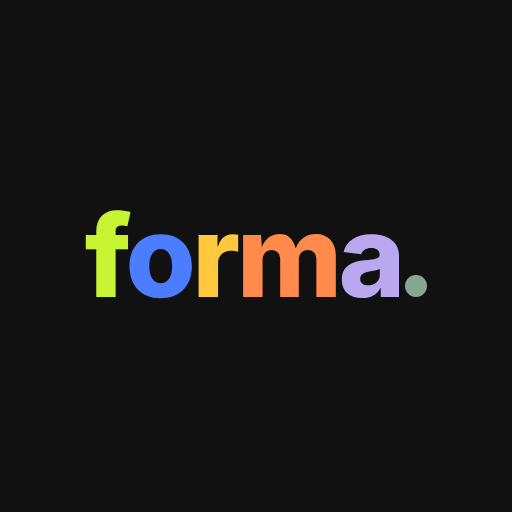
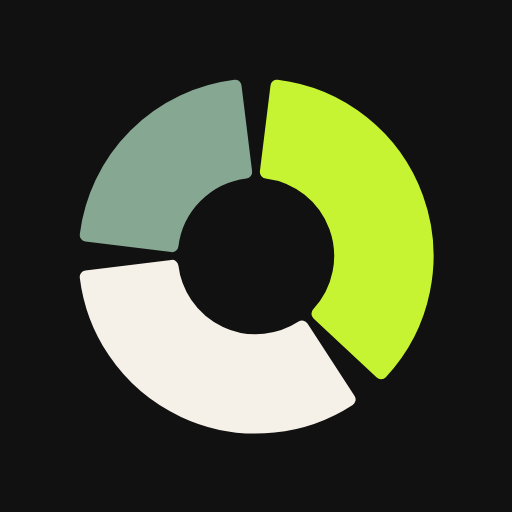
Add files via upload

diff --git a/miforma.js b/miforma.js
@@ -10,6 +10,8 @@
   var $ = function (s, r) { return (r || document).querySelector(s); };
   var esc = function (s) { return String(s == null ? "" : s).replace(/[&<>"']/g, function (c) { return { "&": "&amp;", "<": "&lt;", ">": "&gt;", '"': "&quot;", "'": "&#39;" }[c]; }); };
 
+  var LMARK = '<svg class="lmark" viewBox="0 0 512 512" aria-hidden="true"><path d="M278.7 71.4A186 186 0 0 1 392.0 382.9L323.3 318.7A92 92 0 0 0 267.2 164.7Z" fill="#C6F432" stroke="#C6F432" stroke-width="14" stroke-linejoin="round"/><path d="M357.3 412.0A186 186 0 0 1 71.4 278.7L164.7 267.2A92 92 0 0 0 306.1 333.2Z" fill="currentColor" stroke="currentColor" stroke-width="14" stroke-linejoin="round"/><path d="M71.4 233.3A186 186 0 0 1 233.3 71.4L244.8 164.7A92 92 0 0 0 164.7 244.8Z" fill="#86A892" stroke="#86A892" stroke-width="14" stroke-linejoin="round"/></svg>';
+  function stageRing(st) { var P = ['M278.7 71.4A186 186 0 0 1 392.0 382.9L323.3 318.7A92 92 0 0 0 267.2 164.7Z', 'M357.3 412.0A186 186 0 0 1 71.4 278.7L164.7 267.2A92 92 0 0 0 306.1 333.2Z', 'M71.4 233.3A186 186 0 0 1 233.3 71.4L244.8 164.7A92 92 0 0 0 164.7 244.8Z'], C = ['#C6F432', '#F5F1E8', '#86A892']; return '<svg class="sring" viewBox="0 0 512 512" aria-hidden="true">' + P.map(function (d, i) { var on = i + 1 <= st; return '<path d="' + d + '" fill="' + C[i] + '" stroke="' + C[i] + '" stroke-width="14" stroke-linejoin="round" opacity="' + (on ? 1 : .22) + '"/>'; }).join('') + '</svg>'; }
   // ---------- catálogo ----------
   var SHAPES = {
     tenis: '<svg viewBox="0 0 44 44"><circle cx="22" cy="22" r="20" fill="#C6F432"/></svg>',
@@ -318,7 +320,7 @@
     var body = { hoy: vHoy, tools: vTools, planes: vPlanes, perfil: vPerfil }[tab]();
     var n = weekCount(0), topPro = isPro("vida") || PLANS.some(function (p) { return isPro(p.id); });
     $app.innerHTML =
-      '<div class="top"><div class="logo">forma<i></i></div><div class="row" style="gap:8px">' +
+      '<div class="top"><div class="logo">'+LMARK+'forma<i></i></div><div class="row" style="gap:8px">' +
       (S.demo ? '<span class="tag">modo prueba</span>' : "") +
       '<span class="plan-chip' + (topPro ? " pro" : "") + '">' + (topPro ? "Pro" : "Gratis") + "</span>" +
       (topPro ? '<span class="flame-chip' + (n ? " on" : "") + '" title="Días con algo hecho esta semana">' + ICON.flame + "<b>" + n + "/7</b></span>" : "") + "</div></div>" +
@@ -332,7 +334,7 @@
   // --- acceso: crear cuenta / iniciar sesión / probar sin cuenta ---
   function renderAuth() {
     var reg = mode === "register", forgot = mode === "forgot";
-    var html = '<div class="top"><div class="logo">forma<i></i></div></div><main class="stack">' +
+    var html = '<div class="top"><div class="logo">'+LMARK+'forma<i></i></div></div><main class="stack">' +
       (reg ? '<p class="welk">Bienvenido</p>' : "") + '<h1 class="hello" style="font-size:32px">' + (forgot ? "Recuperar tu contraseña" : reg ? "Dale forma a la vida que querés" : "Qué bueno verte de nuevo") + "</h1>" + (reg ? '<span class="freepill">Gratis</span>' : "");
     if (!sb && !FLUJO) html += '<div class="card small">Las cuentas no están disponibles ahora. Podés usar la app en este dispositivo sin cuenta.</div>';
     if ((sb || FLUJO) && !forgot) {
@@ -362,7 +364,7 @@
     $app.innerHTML = html + "</main>";
   }
   function renderRecovery() {
-    $app.innerHTML = '<div class="top"><div class="logo">forma<i></i></div></div><main class="stack"><h1 class="hello" style="font-size:30px">Elegí una contraseña nueva</h1>' +
+    $app.innerHTML = '<div class="top"><div class="logo">'+LMARK+'forma<i></i></div></div><main class="stack"><h1 class="hello" style="font-size:30px">Elegí una contraseña nueva</h1>' +
       '<label class="field"><span>Contraseña nueva (mínimo 8 caracteres)</span><input id="r-pass" type="password" autocomplete="new-password"></label>' +
       '<button class="btn block" id="r-save">Guardar contraseña</button><div class="msg" id="amsg" role="status"></div></main>';
   }
@@ -370,7 +372,7 @@
   // --- personalizar (primer ingreso) ---
   function renderOnboard() {
     $app.innerHTML =
-      '<div class="top"><div class="logo">forma<i></i></div></div><main class="stack">' +
+      '<div class="top"><div class="logo">'+LMARK+'forma<i></i></div></div><main class="stack">' +
       '<h1 class="hello" style="font-size:30px">¿Cómo te llamás?</h1><p class="muted">Después armamos tu día en 2 minutos.</p>' +
       '<label class="field"><span>Tu nombre</span><input id="f-name" autocomplete="given-name" maxlength="40" value="' + esc(draft.name) + '"></label>' +
       '<button class="btn block" id="create">Empezar</button><div class="msg" id="wmsg"></div></main>';
@@ -1117,14 +1119,14 @@
     if (G && compact && !goalOpen) {
       var d0 = new Date(), nm0 = d0.getHours() * 60 + d0.getMinutes(), nx = null;
       armBlocks().forEach(function (b) { if (b.goalact && b.s >= nm0 && !nx) nx = b; });
-      var nms = (G.ids || []).map(function (id) { var g = goalById(id); return g ? g.n : ""; }).filter(Boolean).join(" y ");
-      return '<div class="card goalcard"><span class="small muted">Tu objetivo · semana ' + goalStage() + ' de 3</span><b style="display:block;font-size:18px;margin:2px 0 4px">' + esc(nms || "Mi objetivo") + '</b><p class="small" style="margin:0 0 8px">' + (nx ? "Próxima acción: <b>" + fmtT(nx.s) + " · " + esc(nx.label) + "</b>" : "Hoy no quedan más acciones de tu objetivo.") + '</p><button class="linkbtn small" data-gtoggle>Ver la semana</button></div>';
+      var nms = (G.ids || []).map(function (id) { var g = goalById(id); return g ? g.n : ""; }).filter(Boolean).map(function (n, i) { return i ? n.charAt(0).toLowerCase() + n.slice(1) : n; }).join(" y ");
+      return '<div class="card goalcard"><div class="row" style="gap:12px;align-items:center">' + stageRing(goalStage()) + '<div><span class="small muted">Tu objetivo · semana ' + goalStage() + ' de 3</span><b style="display:block;font-size:18px;margin:2px 0 4px">' + esc(nms || "Mi objetivo") + '</b></div></div><p class="small" style="margin:0 0 8px">' + (nx ? "Próxima acción: <b>" + fmtT(nx.s) + " · " + esc(nx.label) + "</b>" : "Hoy no quedan más acciones de tu objetivo.") + '</p><button class="linkbtn small" data-gtoggle>Ver la semana</button></div>';
     }
     if (!G) return '<div class="card testcta" style="margin-top:12px"><b>¿Qué querés lograr?</b><p class="small muted" style="margin:6px 0 10px">Contanos tu objetivo y ajustamos tu día para llegar ahí, de a poco.</p><button class="btn sage sm" data-open="test">Elegir mi objetivo</button></div>';
-    var st = goalStage(), ch = goalChanges().filter(function (c) { return c.s <= st; }), names = (G.ids || []).map(function (id) { var g = goalById(id); return g ? g.n : ""; }).filter(Boolean).join(" y ");
+    var st = goalStage(), ch = goalChanges().filter(function (c) { return c.s <= st; }), names = (G.ids || []).map(function (id) { var g = goalById(id); return g ? g.n : ""; }).filter(Boolean).map(function (n, i) { return i ? n.charAt(0).toLowerCase() + n.slice(1) : n; }).join(" y ");
     var cur = ch.filter(function (c) { return c.s === st; }).sort(function (x, y) { return (x.tip ? 1 : 0) - (y.tip ? 1 : 0); }).slice(0, 4), tbl = armBlocks(), pend = ch.filter(function (c) { return !(G.ap && G.ap[c.id]) && (c.patch || c.act); });
     var pro = isProU();
-    var h = '<div class="card goalcard"><span class="small muted">Tu objetivo · semana ' + st + ' de 3</span><b style="display:block;font-size:19px;margin:2px 0 8px">' + esc(names || "Mi objetivo") + "</b>";
+    var h = '<div class="card goalcard"><div class="row" style="gap:12px;align-items:center;margin-bottom:8px">' + stageRing(st) + '<div><span class="small muted">Tu objetivo · semana ' + st + ' de 3</span><b style="display:block;font-size:19px;margin:2px 0 0">' + esc(names || "Mi objetivo") + "</b></div></div>";
     h += cur.map(function (c) { var ap = G.ap && G.ap[c.id], p = !!(c.patch || c.act), tb = null; tbl.forEach(function (b) { if (b.goalact && b.goalact.split("|")[0] === c.id && !tb) tb = b; }); return '<div class="row" style="align-items:flex-start;gap:10px;padding:7px 0;border-top:1px solid var(--line)"><span style="flex:1"><b class="small">' + (tb ? fmtT(tb.s) + " · " : "") + esc(c.t) + '</b><span class="small muted" style="display:block">' + esc(c.why) + "</span></span>" + (p ? (ap ? '<span class="tag ok">En tu día</span>' : pro ? '<button class="btn sage sm" data-gapply="' + c.id + '">Sumar</button>' : "") : "") + "</div>"; }).join("");
     if (pend.length && !pro) h += '<button class="btn ghost block" data-plan="vida" style="margin-top:10px">Con Pro tu día se ajusta cada semana</button>';
     h += (compact ? '<button class="linkbtn small" data-gtoggle style="margin-top:8px">Ocultar</button> ' : "") + '<button class="linkbtn small" data-open="test" style="margin:8px 0 0 12px">Cambiar mi objetivo</button></div>';

diff --git a/miforma.html b/miforma.html
@@ -13,7 +13,7 @@
 <meta name="apple-mobile-web-app-capable" content="yes">
 <meta name="apple-mobile-web-app-title" content="Forma">
 <link rel="stylesheet" href="https://fonts.googleapis.com/css2?family=Inter:wght@400;600&family=Montserrat:wght@800&display=swap">
-<link rel="stylesheet" href="miforma.css?v=28">
+<link rel="stylesheet" href="miforma.css?v=29">
 <style>
 #splash{position:fixed;inset:0;z-index:100;background:#F5F1E8;display:flex;flex-direction:column;align-items:center;justify-content:center;gap:14px;transition:opacity .45s ease}
 #splash.out{opacity:0;pointer-events:none}
@@ -41,7 +41,7 @@
 <script src="https://cdn.jsdelivr.net/npm/@supabase/supabase-js@2.118.0/dist/umd/supabase.js"></script>
 <script src="frases.js?v=1"></script>
 <script src="dia.js?v=5"></script>
-<script src="programas.js?v=3"></script><script src="miforma.js?v=41"></script>
+<script src="programas.js?v=3"></script><script src="miforma.js?v=42"></script>
 <script>setTimeout(function(){var e=document.getElementById("splash");if(e)e.classList.add("out")},7000)</script>
 </body>
 </html>

diff --git a/miforma.css b/miforma.css
@@ -353,3 +353,6 @@ textarea.pgin{resize:vertical;min-height:64px}
 
 .top{padding-top:calc(16px + env(safe-area-inset-top))}
 .full>header{padding-top:calc(10px + env(safe-area-inset-top))}
+
+.lmark{width:.95em;height:.95em;vertical-align:-.12em;margin-right:.28em}
+.sring{width:44px;height:44px;flex:none}
